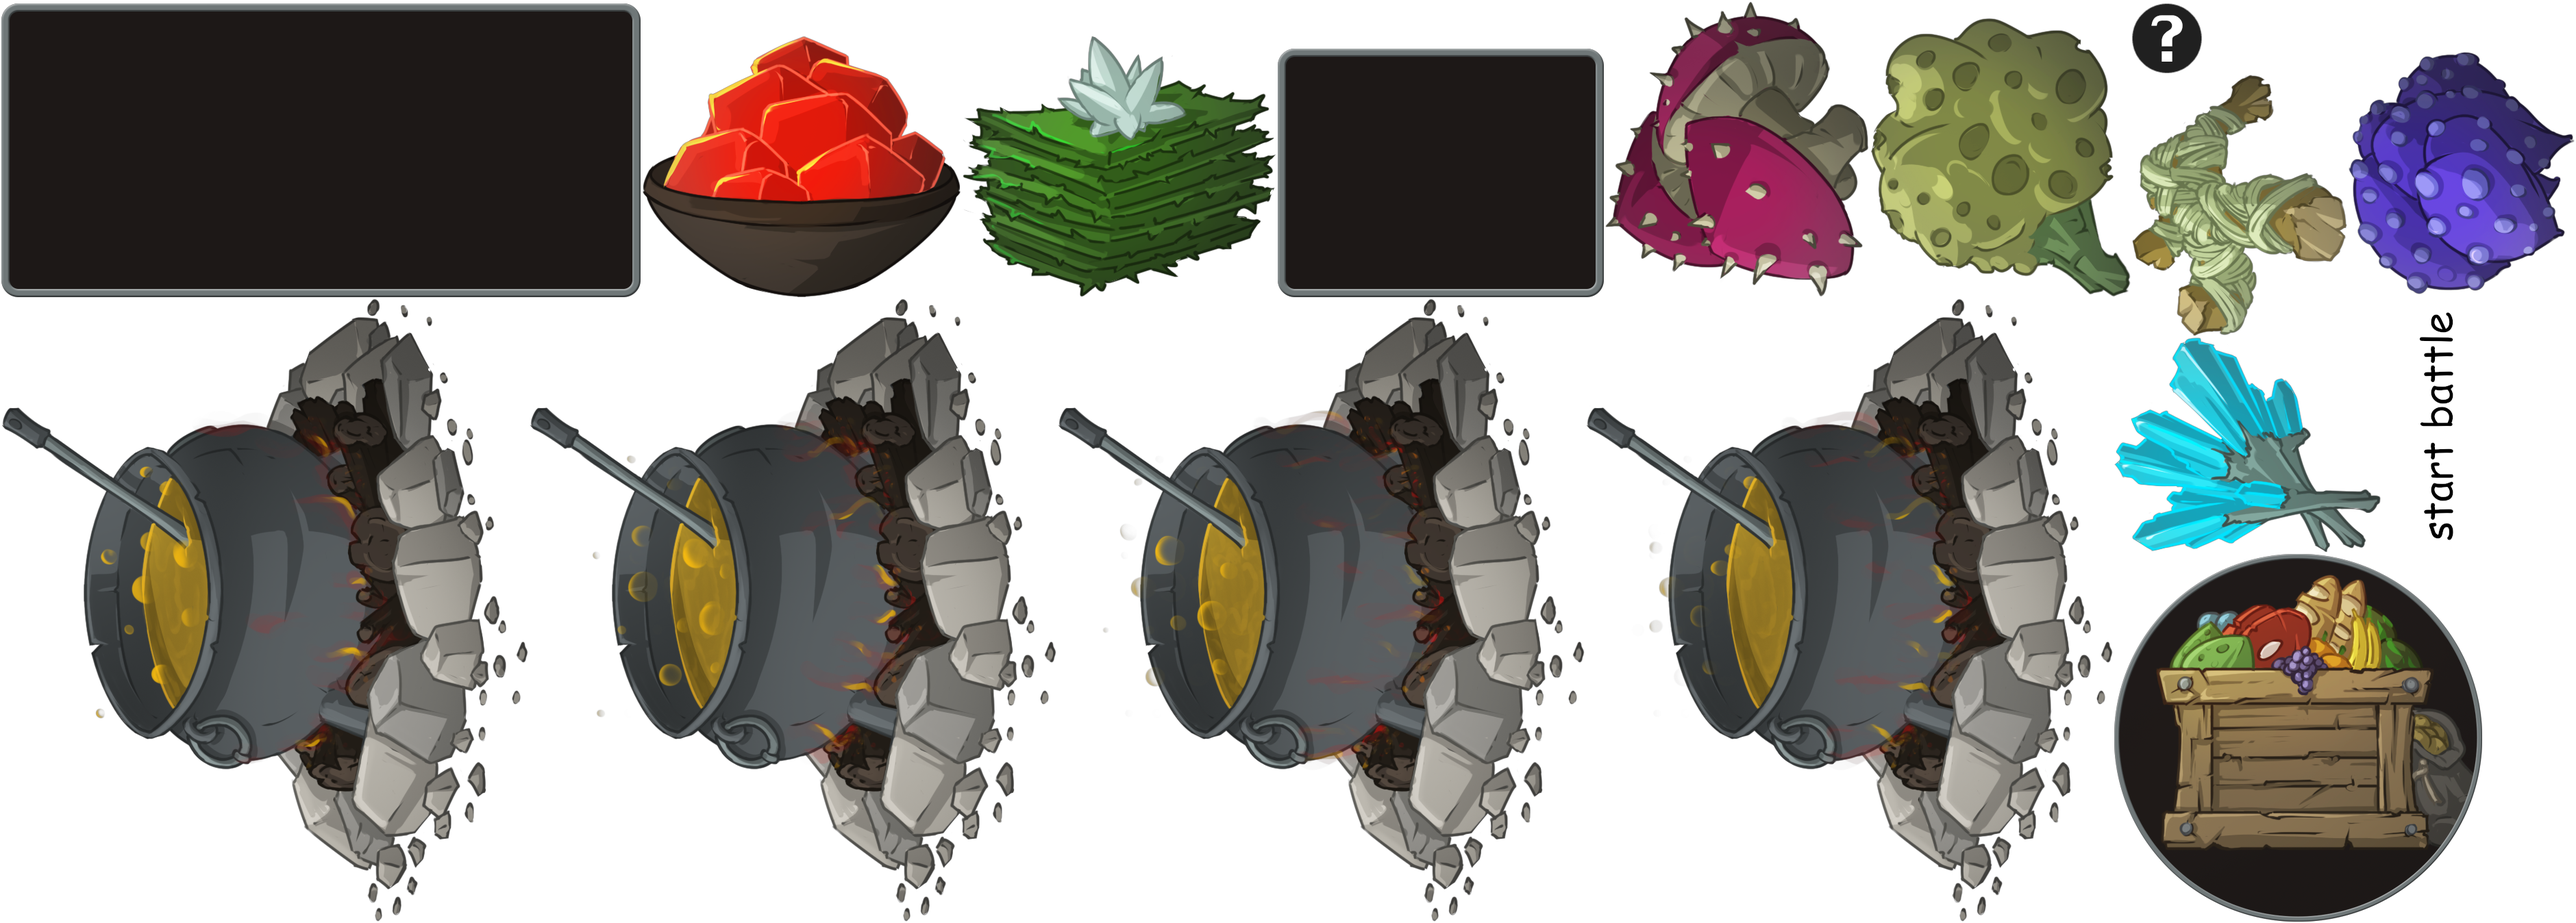
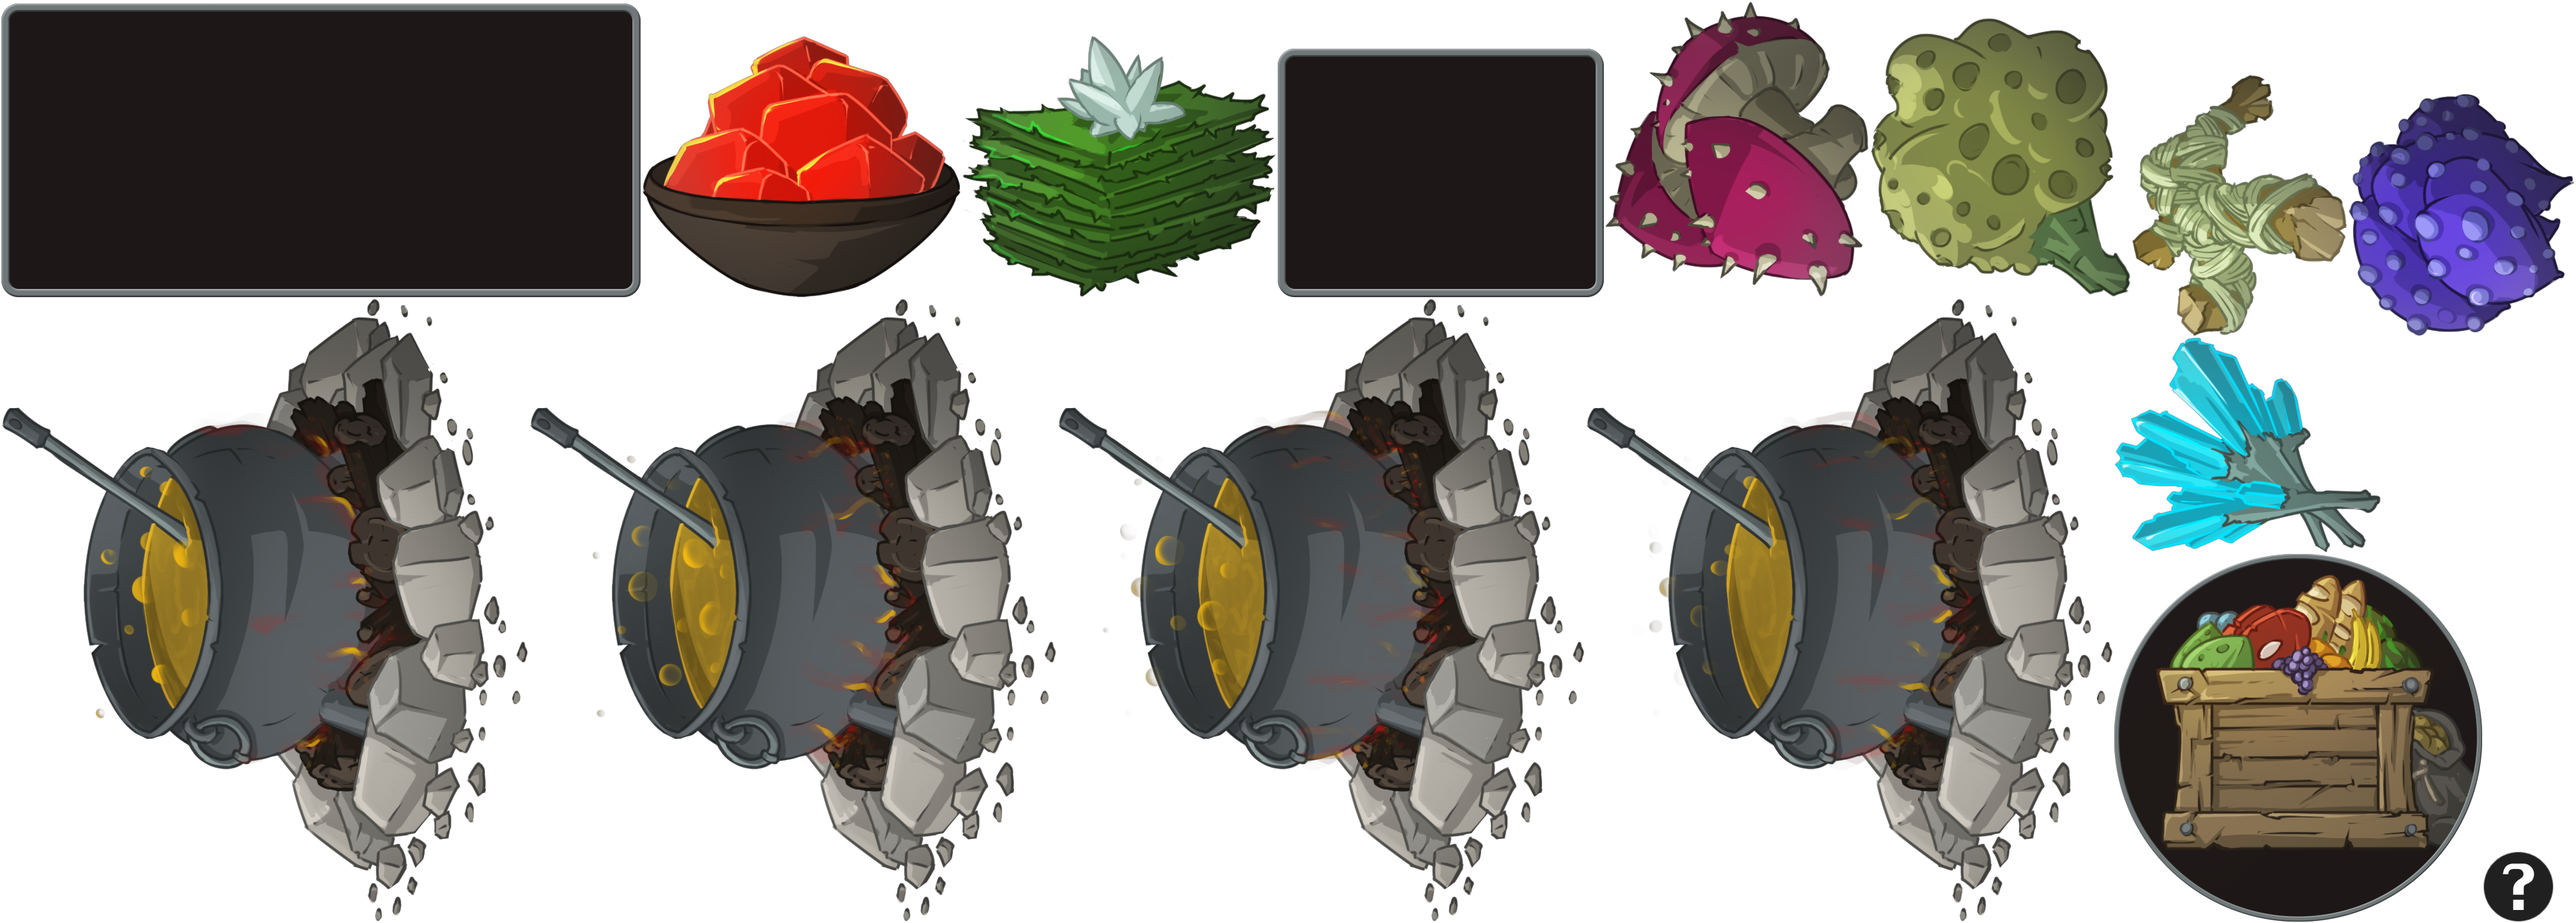
kewl art

diff --git a/src/game/rewind/rewind.rs b/src/game/rewind/rewind.rs
@@ -5,7 +5,7 @@ use strum::IntoEnumIterator;
 
 use crate::{
     AppState, Articy, AssetLibrary, Clickable, ClickableSystem, Depth, Dialogue, GameState,
-    PersistentGameState, Script, Transform2, UnitKind,
+    PersistentGameState, Script, Sfx, SfxKind, Transform2, UnitKind,
 };
 
 #[derive(Clone, Debug, Eq, Hash, PartialEq, SystemSet)]
@@ -163,7 +163,7 @@ fn rewind_enter(
                 TextSection {
                     value: "Checkpoint Info\n\n".to_owned(),
                     style: TextStyle {
-                        font: asset_library.font_normal.clone(),
+                        font: asset_library.font_heading.clone(),
                         font_size: 82.,
                         color: Color::WHITE,
                     },
@@ -197,16 +197,17 @@ fn rewind_enter(
             let enabled = stage_index < rewind_state.stages.len();
             let selected = stage_index == rewind_state.selected;
             let mut entity = commands.spawn((
-                SpriteBundle {
-                    sprite: Sprite {
+                SpriteSheetBundle {
+                    sprite: TextureAtlasSprite {
                         color: match (selected, enabled) {
                             (true, _) => Color::WHITE,
                             (_, true) => Color::GRAY,
-                            _ => Color::DARK_GRAY,
+                            _ => Color::rgb(0.1, 0.1, 0.1),
                         },
-                        custom_size: Some(Vec2::splat(200.)),
+                        index: y as usize,
                         ..Default::default()
                     },
+                    texture_atlas: asset_library.image_atlas_war_chef_rewind.clone(),
                     ..Default::default()
                 },
                 Transform2::from_xy(x as f32 * 250. - 960., y as f32 * -250. + 430.),
@@ -232,7 +233,8 @@ fn rewind_enter(
 
 fn rewind_stage_click(
     mut rewind_state: ResMut<RewindState>,
-    mut rewind_stage_query: Query<(&mut Sprite, &RewindStage, &Clickable)>,
+    mut rewind_stage_query: Query<(&mut TextureAtlasSprite, &RewindStage, &Clickable)>,
+    mut sfx: ResMut<Sfx>,
     dialogue: Res<Dialogue>,
 ) {
     if dialogue.active() {
@@ -242,6 +244,7 @@ fn rewind_stage_click(
         rewind_stage_query.iter_mut()
     {
         if rewind_stage_clickable.confirmed {
+            sfx.play(SfxKind::UiButtonClick);
             rewind_state.selected = rewind_stage.index;
         }
 
@@ -250,7 +253,7 @@ fn rewind_stage_click(
         rewind_stage_sprite.color = match (selected, enabled) {
             (true, _) => Color::WHITE,
             (_, true) => Color::GRAY,
-            _ => Color::DARK_GRAY,
+            _ => Color::rgb(0.1, 0.1, 0.1),
         };
     }
 }
@@ -259,6 +262,7 @@ fn rewind_update_button(
     mut rewind_button_text_query: Query<(&mut Sprite, &Clickable), With<RewindButton>>,
     mut game_state: ResMut<GameState>,
     mut next_state: ResMut<NextState<AppState>>,
+    mut sfx: ResMut<Sfx>,
     rewind_state: Res<RewindState>,
     dialogue: Res<Dialogue>,
 ) {
@@ -274,6 +278,7 @@ fn rewind_update_button(
             rewind_button_sprite.color = Color::DARK_GRAY;
         }
         if rewind_button_clickable.confirmed {
+            sfx.play(SfxKind::UiButtonConfirm);
             *game_state = rewind_state.stages[rewind_state.selected].clone();
             game_state.checkpoint();
             next_state.set(AppState::GameIntermission);

diff --git a/src/game/planning/planning.rs b/src/game/planning/planning.rs
@@ -480,14 +480,17 @@ fn planning_spine_ready(
                 if let Some(mut start_battle_entity) = commands.get_entity(*start_battle_entity) {
                     start_battle_entity.with_children(|parent| {
                         parent.spawn((
+                            SpriteSheetBundle {
+                                texture_atlas: asset_library.image_atlas_start_battle.clone(),
+                                ..Default::default()
+                            },
                             Clickable {
                                 shape: CollisionShape::Rect {
                                     offset: Vec2::ZERO,
-                                    size: Vec2::new(375., 150.),
+                                    size: Vec2::new(430., 125.),
                                 },
                                 ..Default::default()
                             },
-                            TransformBundle::default(),
                             Transform2::default(),
                             PlanningStartBattle,
                         ));
@@ -928,10 +931,27 @@ fn planning_start_battle(
     mut planning_state: ResMut<PlanningState>,
     mut dialogue: ResMut<Dialogue>,
     mut game_state: ResMut<GameState>,
-    start_battle_query: Query<&Clickable, With<PlanningStartBattle>>,
+    mut sfx: ResMut<Sfx>,
+    mut start_battle_query: Query<(&mut TextureAtlasSprite, &Clickable), With<PlanningStartBattle>>,
     articy: Res<Articy>,
 ) {
-    for start_battle_clickable in start_battle_query.iter() {
+    for (mut start_battle_sprite, start_battle_clickable) in start_battle_query.iter_mut() {
+        if start_battle_clickable.just_clicked() {
+            sfx.play(SfxKind::UiButtonClick);
+        }
+        if start_battle_clickable.just_hovered() {
+            sfx.play(SfxKind::UiButtonHover);
+        }
+        if start_battle_clickable.just_released() {
+            sfx.play(SfxKind::UiButtonRelease);
+        }
+        if start_battle_clickable.clicked {
+            start_battle_sprite.index = 2;
+        } else if start_battle_clickable.hovered {
+            start_battle_sprite.index = 1;
+        } else {
+            start_battle_sprite.index = 0;
+        }
         if start_battle_clickable.confirmed {
             if let Some(tutorial_dialogue) = tutorial_dialogue(game_state.as_ref()) {
                 dialogue.queue(
@@ -939,6 +959,7 @@ fn planning_start_battle(
                     game_state.as_mut(),
                 );
             } else {
+                sfx.play(SfxKind::UiButtonConfirm);
                 planning_state.start = true;
             }
         }
@@ -1029,7 +1050,7 @@ fn planning_ui(
 }
 
 fn tutorial_dialogue(game_state: &GameState) -> Option<&'static str> {
-    if game_state.quest.war_chef == 0 {
+    /*if game_state.quest.war_chef == 0 {
         match game_state.quest.battle {
             0 => {
                 if game_state.available_army.peasants != 0 {
@@ -1058,5 +1079,6 @@ fn tutorial_dialogue(game_state: &GameState) -> Option<&'static str> {
         Some("MustFeedUnits")
     } else {
         None
-    }
+    }*/
+    None
 }

diff --git a/src/asset_library.rs b/src/asset_library.rs
@@ -17,6 +17,8 @@ pub struct AssetLibrary {
     pub image_atlas_planning_buttons: Handle<TextureAtlas>,
     pub image_atlas_play: Handle<TextureAtlas>,
     pub image_atlas_units: Handle<TextureAtlas>,
+    pub image_atlas_war_chef_rewind: Handle<TextureAtlas>,
+    pub image_atlas_start_battle: Handle<TextureAtlas>,
     pub image_bog_sick: Handle<Image>,
     pub spine_rat: Handle<SkeletonData>,
     pub spine_rat_warrior: Handle<SkeletonData>,
@@ -85,6 +87,22 @@ fn asset_library_load(
         Vec2::new(400., 320.),
         3,
         2,
+        None,
+        None,
+    ));
+    asset_library.image_atlas_war_chef_rewind = texture_atlases.add(TextureAtlas::from_grid(
+        asset_server.load("images/war_chefs.png"),
+        Vec2::new(210., 210.),
+        5,
+        1,
+        None,
+        None,
+    ));
+    asset_library.image_atlas_start_battle = texture_atlases.add(TextureAtlas::from_grid(
+        asset_server.load("images/Battle_Start_Button.png"),
+        Vec2::new(440., 135.),
+        1,
+        3,
         None,
         None,
     ));

diff --git a/src/game/sfx.rs b/src/game/sfx.rs
@@ -100,7 +100,6 @@ fn sfx_play(
     mut sfx: ResMut<Sfx>,
     mut source_query: Query<(&mut AudioPlusSource, &SfxKind)>,
     mut battle_jingle_events: EventWriter<BattleJingleEvent>,
-    keys: Res<Input<KeyCode>>,
 ) {
     for kind in take(&mut sfx.queue) {
         for (mut source, source_kind) in source_query.iter_mut() {
@@ -114,8 +113,5 @@ fn sfx_play(
             SfxKind::JingleDefeat => battle_jingle_events.send(BattleJingleEvent::Defeat),
             _ => {}
         }
-    }
-    if keys.just_pressed(KeyCode::Key5) {
-        sfx.play(SfxKind::UiButtonRelease);
     }
 }

diff --git a/src/common/dialogue.rs b/src/common/dialogue.rs
@@ -636,9 +636,9 @@ fn dialogue_update(
                 }
             }
         }
-        if dialogue_string_len > dialogue.last_char_count {
+        /*if dialogue_string_len > dialogue.last_char_count {
             sfx.play(SfxKind::DialogueCharacter);
-        }
+        }*/
         dialogue.last_char_count = dialogue_string_len;
         let mut dialogue_option_text_query_sorted =
             dialogue_option_text_query.iter().collect::<Vec<_>>();
